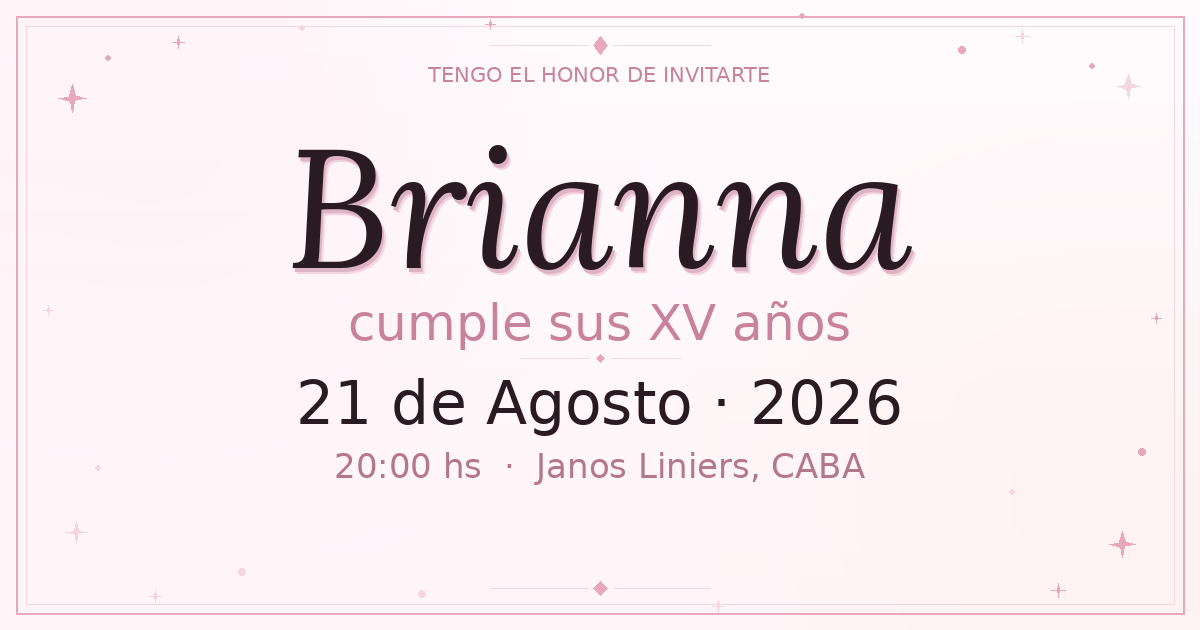
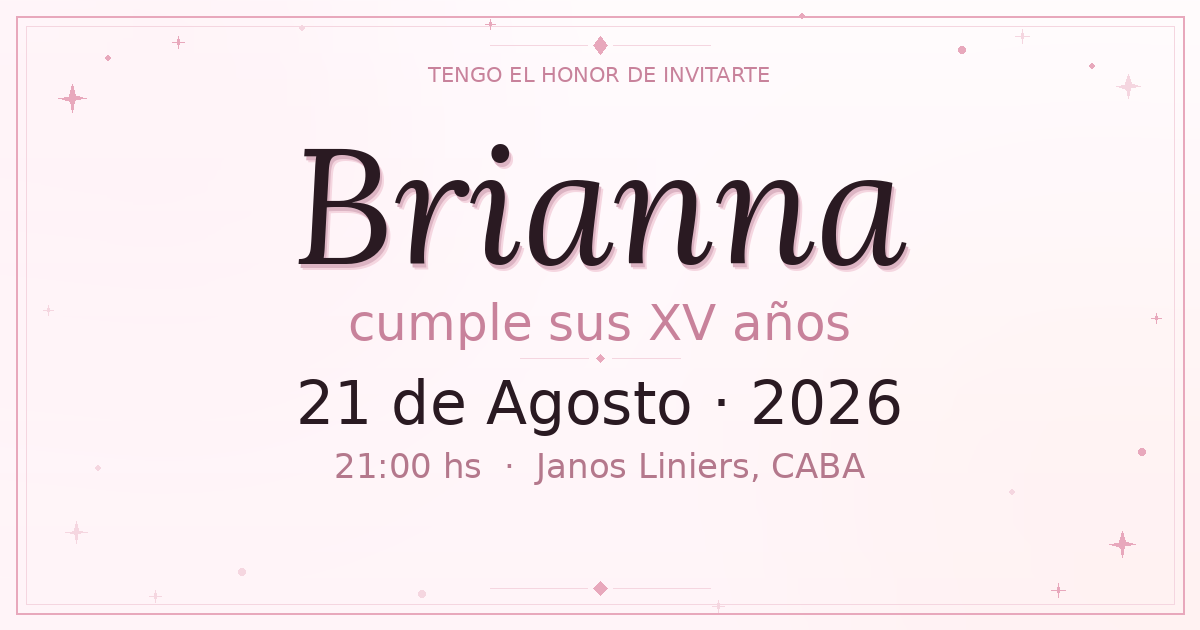
Add files via upload

Changed region(s): [[0.2467, 0.2413, 0.7708, 0.4524], [0.2775, 0.7238, 0.3392, 0.754]]

diff --git a/envio-masivo.html b/envio-masivo.html
@@ -5,6 +5,7 @@
 <meta name="viewport" content="width=device-width, initial-scale=1.0">
 <title>Envío Invitaciones · XV Brianna</title>
 <link href="https://fonts.googleapis.com/css2?family=Raleway:wght@300;400;500;600&display=swap" rel="stylesheet">
+<script src="https://cdnjs.cloudflare.com/ajax/libs/xlsx/0.18.5/xlsx.full.min.js"></script>
 <style>
 :root {
   --rose: #e8a8bc; --champ: #f5d6e0; --ink: #2a1a22;
@@ -93,6 +94,24 @@ td{padding:11px 12px;vertical-align:middle;}
 <!-- IMPORTAR CONTACTOS -->
 <div class="card">
   <h2>Agregar contactos</h2>
+
+  <!-- Desde Excel -->
+  <div style="background:#fff9fb;border:1px solid var(--champ);border-radius:6px;padding:18px;margin-bottom:20px">
+    <div style="font-size:13px;font-weight:500;color:var(--ink);margin-bottom:12px">📊 Opción 1: Desde Excel (recomendado)</div>
+    <div style="display:flex;gap:10px;flex-wrap:wrap">
+      <button class="btn btn-rose btn-sm" onclick="descargarPlantilla()">⬇ Descargar plantilla Excel</button>
+      <label class="btn btn-primary btn-sm" style="cursor:pointer">
+        📂 Subir Excel completo
+        <input type="file" id="excel-file" accept=".xlsx,.xls,.csv" style="display:none" onchange="importarExcel(event)">
+      </label>
+    </div>
+    <div style="font-size:12px;color:var(--ink-soft);margin-top:10px;line-height:1.5">
+      Descargá la plantilla, completala con los nombres y números, guardala en tu compu y subila. Así siempre tenés tu copia en Excel por las dudas.
+    </div>
+  </div>
+
+  <!-- Manual -->
+  <div style="font-size:13px;font-weight:500;color:var(--ink);margin-bottom:12px">✏ Opción 2: Pegar manualmente</div>
   <div class="input-group">
     <label>Pegá los números (uno por línea, o separados por coma) — formato: 54911XXXXXXXX o nombre,número</label>
     <textarea id="import-text" placeholder="Ejemplo:&#10;María García,5491123456789&#10;Juan Pérez,5491198765432&#10;5491155443322"></textarea>
@@ -102,7 +121,22 @@ td{padding:11px 12px;vertical-align:middle;}
     <button class="btn btn-ghost btn-sm" onclick="limpiarTodo()">Borrar todo</button>
   </div>
   <div class="notice">
-    <strong>Formato aceptado:</strong> Número solo (54911XXXXXXXX) o Nombre,Número — Los números deben incluir código de país (Argentina: 549 + código de área + número, sin el 15).
+    <strong>Formato del número:</strong> con código de país. Argentina: 549 + código de área + número, sin el 15. Ej: 5491123456789
+  </div>
+</div>
+
+<!-- RESPALDO -->
+<div class="card" style="border-color:#a8d8a8">
+  <h2 style="color:var(--green)">🔒 Resguardar tus datos</h2>
+  <div class="notice" style="background:#f3fbf3;border-color:#c8e8c8;margin-top:0;margin-bottom:16px">
+    <strong>Importante:</strong> Los contactos se guardan en este navegador. Si limpiás el caché o cambiás de dispositivo, se pierden. <strong>Descargá un respaldo seguido</strong> y guardalo en tu mail o Drive. Después lo podés volver a cargar acá.
+  </div>
+  <div style="display:flex;gap:10px;flex-wrap:wrap">
+    <button class="btn btn-green" onclick="descargarRespaldo()">💾 Descargar respaldo</button>
+    <label class="btn btn-ghost" style="cursor:pointer">
+      📂 Restaurar respaldo
+      <input type="file" id="restore-file" accept=".json" style="display:none" onchange="restaurarRespaldo(event)">
+    </label>
   </div>
 </div>
 
@@ -111,28 +145,55 @@ td{padding:11px 12px;vertical-align:middle;}
   <h2>Mensaje de invitación</h2>
   <div class="input-group">
     <label>Texto del mensaje (podés personalizar)</label>
-    <textarea id="msg-template" rows="6">🌸 *¡Hola! Te invitamos a los XV de Brianna* 🌸
+    <textarea id="msg-template" rows="6">Hola! Estas invitado/a a los 15 de Brianna
 
-✨ El 21 de Agosto de 2026 celebramos esta noche tan especial y nos encantaría tenerte ahí.
+El 21 de Agosto de 2026 celebramos esta noche tan especial y nos encantaria tenerte ahi.
 
-📍 Janos Liniers · Av. Larrazábal 557 · CABA
-🕘 De 21:00 hs a 05:00 hs
+Lugar: Janos Liniers - Av. Larrazabal 557 - CABA
+Horario: de 21:00 a 05:00 hs
 
-Hacé click en el link para ver la invitación completa, confirmar asistencia y conocer todos los detalles:
+Entra al link para ver la invitacion completa, confirmar asistencia y conocer todos los detalles:
 
-👇 https://eonnembo.github.io/invitacion-brianna-xv/
+https://eonnembo.github.io/invitacion-brianna-xv/
 
-*Con amor, la familia Onnembo González* 💕</textarea>
+Con amor, la familia Onnembo Gonzalez</textarea>
   </div>
   <div class="msg-preview" id="msg-preview"></div>
 </div>
 
+<!-- CONFIRMACIONES RECIBIDAS -->
+<div class="card">
+  <h2>✓ Confirmaciones recibidas</h2>
+  <div style="display:flex;gap:10px;margin-bottom:16px;flex-wrap:wrap;align-items:center">
+    <button class="btn btn-rose btn-sm" onclick="cargarConfirmaciones()">🔄 Actualizar confirmaciones</button>
+    <span id="conf-updated" style="font-size:11px;color:var(--ink-soft)"></span>
+  </div>
+  <div class="stats" style="margin-bottom:16px">
+    <div class="stat"><span class="stat-num" id="cf-total" style="color:var(--rose)">0</span><span class="stat-label">Confirmaciones</span></div>
+    <div class="stat"><span class="stat-num" id="cf-asisten" style="color:var(--green)">0</span><span class="stat-label">Asisten</span></div>
+    <div class="stat"><span class="stat-num" id="cf-personas" style="color:var(--ink)">0</span><span class="stat-label">Total personas</span></div>
+    <div class="stat"><span class="stat-num" id="cf-no" style="color:#aaa">0</span><span class="stat-label">No asisten</span></div>
+  </div>
+  <div class="table-wrap">
+    <table>
+      <thead><tr><th>Fecha</th><th>Nombre y Apellido</th><th>Personas</th><th>Acompañantes</th><th>Asiste</th><th>Dieta</th><th>Mensaje</th></tr></thead>
+      <tbody id="conf-body"></tbody>
+    </table>
+    <div id="conf-empty" style="text-align:center;padding:32px;color:var(--ink-soft);font-size:14px">
+      Tocá "Actualizar confirmaciones" para ver quiénes confirmaron ↑
+    </div>
+  </div>
+  <div class="notice">
+    <strong>💡 Las confirmaciones se actualizan</strong> desde la planilla de Google Sheets. Cada vez que toques "Actualizar" se traen las últimas. No hace falta WhatsApp ni mail.
+  </div>
+</div>
+
 <!-- LISTA DE CONTACTOS -->
 <div class="card">
-  <h2>Lista de contactos</h2>
+  <h2>Lista de contactos (envío)</h2>
   <div style="display:flex;gap:10px;margin-bottom:16px;flex-wrap:wrap">
     <button class="btn btn-rose btn-sm" onclick="enviarSiguiente()">▶ Enviar siguiente pendiente</button>
-    <button class="btn btn-ghost btn-sm" onclick="exportarCSV()">⬇ Exportar CSV</button>
+    <button class="btn btn-ghost btn-sm" onclick="exportarCSV()">⬇ Exportar Excel (con estados)</button>
     <button class="btn btn-ghost btn-sm" onclick="filtrar('todos')">Todos</button>
     <button class="btn btn-ghost btn-sm" onclick="filtrar('pendiente')">Solo pendientes</button>
   </div>
@@ -314,16 +375,181 @@ function filtrar(f) {
   renderTabla();
 }
 
-// ── EXPORTAR CSV ──
+// ── EXPORTAR EXCEL ──
 function exportarCSV() {
-  const rows = [['Nombre','Número','Estado','Fecha Envío']];
-  contactos.forEach(c=>rows.push([c.nombre,c.numero,c.estado,c.fechaEnvio||'']));
-  const csv = rows.map(r=>r.map(v=>`"${v}"`).join(',')).join('\n');
-  const blob = new Blob([csv],{type:'text/csv;charset=utf-8;'});
+  const datos = [['Nombre','Numero de WhatsApp','Estado','Fecha Envio']];
+  contactos.forEach(c=>datos.push([c.nombre, c.numero, c.estado, c.fechaEnvio||'']));
+  const ws = XLSX.utils.aoa_to_sheet(datos);
+  ws['!cols'] = [{wch:30},{wch:25},{wch:15},{wch:22}];
+  const wb = XLSX.utils.book_new();
+  XLSX.utils.book_append_sheet(wb, ws, 'Invitados');
+  XLSX.writeFile(wb, 'invitados-brianna-xv.xlsx');
+  toast('⬇ Excel exportado con el estado de cada contacto');
+}
+
+// ── CONFIRMACIONES DESDE SHEETS ──
+const CONF_URL = 'https://script.google.com/macros/s/AKfycbzWmRH-8HkDNK5Qb0wy9Wu4t_7k3lrNWOHocR-RPotx-0EmffH-_ZYgHPDbD1bI35LY-w/exec';
+
+async function cargarConfirmaciones() {
+  const btn = event?.target;
+  if(btn) btn.textContent = '⏳ Cargando...';
+  try {
+    const resp = await fetch(CONF_URL + '?action=list');
+    const data = await resp.json();
+    renderConfirmaciones(data.confirmaciones || data || []);
+    document.getElementById('conf-updated').textContent = 'Actualizado: ' + new Date().toLocaleString('es-AR');
+  } catch(e) {
+    toast('Error al cargar. Verificá el Apps Script.');
+    console.error(e);
+  }
+  if(btn) btn.textContent = '🔄 Actualizar confirmaciones';
+}
+
+function renderConfirmaciones(lista) {
+  const tbody = document.getElementById('conf-body');
+  const empty = document.getElementById('conf-empty');
+
+  if(!lista || lista.length === 0) {
+    tbody.innerHTML = '';
+    empty.style.display = 'block';
+    empty.textContent = 'Todavía no hay confirmaciones.';
+    return;
+  }
+  empty.style.display = 'none';
+
+  // Stats
+  let asisten = 0, noAsisten = 0, totalPersonas = 0;
+  lista.forEach(c => {
+    const asiste = (c.asistencia||'').toLowerCase().includes('confirmo') || (c.asistencia||'').includes('✅');
+    if(asiste){ asisten++; totalPersonas += parseInt(c.personas)||1; }
+    else noAsisten++;
+  });
+  document.getElementById('cf-total').textContent    = lista.length;
+  document.getElementById('cf-asisten').textContent  = asisten;
+  document.getElementById('cf-personas').textContent = totalPersonas;
+  document.getElementById('cf-no').textContent       = noAsisten;
+
+  tbody.innerHTML = lista.slice().reverse().map(c => {
+    const asiste = (c.asistencia||'').toLowerCase().includes('confirmo') || (c.asistencia||'').includes('✅');
+    const nombreCompleto = `${c.nombre||''} ${c.apellido||''}`.trim();
+    return `<tr>
+      <td style="font-size:11px;color:var(--ink-soft)">${c.fecha||''}</td>
+      <td><strong style="font-weight:400">${nombreCompleto}</strong></td>
+      <td style="text-align:center">${c.personas||'-'}</td>
+      <td style="font-size:12px;color:var(--ink-soft)">${c.acompanantes||'-'}</td>
+      <td><span class="badge badge-${asiste?'sent':'skip'}">${asiste?'✓ Sí':'No'}</span></td>
+      <td style="font-size:12px;color:var(--ink-soft)">${c.dieta||'-'}</td>
+      <td style="font-size:12px;color:var(--ink-soft);max-width:200px">${c.mensaje||'-'}</td>
+    </tr>`;
+  }).join('');
+}
+
+// ── EXCEL: PLANTILLA E IMPORTACIÓN ──
+function descargarPlantilla() {
+  const datos = [
+    ['Nombre', 'Numero de WhatsApp'],
+    ['Maria Garcia', '5491123456789'],
+    ['Juan Perez', '5491198765432'],
+    ['', ''],
+    ['', ''],
+    ['', ''],
+  ];
+  const ws = XLSX.utils.aoa_to_sheet(datos);
+  ws['!cols'] = [{wch:30},{wch:25}];
+  // Forzar columna B como texto para no perder ceros
+  for(let r=1; r<datos.length; r++){
+    const cell = 'B'+(r+1);
+    if(ws[cell]) ws[cell].t = 's';
+  }
+  const wb = XLSX.utils.book_new();
+  XLSX.utils.book_append_sheet(wb, ws, 'Invitados');
+  XLSX.writeFile(wb, 'plantilla-invitados-brianna.xlsx');
+  toast('⬇ Plantilla descargada');
+}
+
+function importarExcel(event) {
+  const file = event.target.files[0];
+  if(!file) return;
+  const reader = new FileReader();
+  reader.onload = function(e) {
+    try {
+      const data = new Uint8Array(e.target.result);
+      const wb = XLSX.read(data, {type:'array'});
+      const ws = wb.Sheets[wb.SheetNames[0]];
+      const rows = XLSX.utils.sheet_to_json(ws, {header:1, defval:''});
+
+      let agregados = 0;
+      rows.forEach((row, idx) => {
+        if(idx === 0) return; // saltar encabezado
+        let nombre = String(row[0]||'').trim();
+        let numero = String(row[1]||'').replace(/\D/g,'');
+        // Saltar ejemplos y vacíos
+        if(!numero || numero.length < 8) return;
+        if(nombre==='Maria Garcia' || nombre==='Juan Perez') return;
+
+        if(numero.startsWith('0')) numero = '54'+numero.slice(1);
+        if(!numero.startsWith('54')) numero = '54'+numero;
+        if(contactos.some(c=>c.numero===numero)) return;
+
+        contactos.push({
+          id: Date.now()+Math.random(),
+          nombre: nombre || `Invitado ${contactos.length+1}`,
+          numero, estado:'pendiente', fechaEnvio:null
+        });
+        agregados++;
+      });
+      guardar(); renderTabla(); renderStats();
+      toast(`✅ ${agregados} contacto(s) importado(s) desde Excel`);
+    } catch(err) {
+      toast('Error al leer el Excel');
+      console.error(err);
+    }
+  };
+  reader.readAsArrayBuffer(file);
+  event.target.value = '';
+}
+
+// ── RESPALDO ──
+function descargarRespaldo() {
+  const data = {
+    version: 1,
+    fecha: new Date().toISOString(),
+    contactos: contactos,
+    mensaje: document.getElementById('msg-template').value
+  };
+  const blob = new Blob([JSON.stringify(data, null, 2)], {type:'application/json'});
   const a = document.createElement('a');
   a.href = URL.createObjectURL(blob);
-  a.download = 'invitados-brianna-xv.csv';
+  a.download = `respaldo-invitados-brianna-${new Date().toISOString().slice(0,10)}.json`;
   a.click();
+  toast('💾 Respaldo descargado. ¡Guardalo en tu mail o Drive!');
+}
+
+function restaurarRespaldo(event) {
+  const file = event.target.files[0];
+  if(!file) return;
+  const reader = new FileReader();
+  reader.onload = function(e) {
+    try {
+      const data = JSON.parse(e.target.result);
+      if(data.contactos) {
+        if(contactos.length > 0 && !confirm('Esto reemplazará los contactos actuales. ¿Continuar?')) return;
+        contactos = data.contactos;
+        if(data.mensaje) document.getElementById('msg-template').value = data.mensaje;
+        guardar();
+        renderTabla();
+        renderStats();
+        renderPreview();
+        toast('✅ Respaldo restaurado: ' + contactos.length + ' contactos');
+      } else {
+        toast('Archivo no válido');
+      }
+    } catch(err) {
+      toast('Error al leer el archivo');
+    }
+  };
+  reader.readAsText(file);
+  event.target.value = '';
 }
 
 // ── TOAST ──

diff --git a/index.html b/index.html
@@ -753,7 +753,8 @@ footer .footer-name{
   <p class="section-body" style="text-align:center">Para poder preparar todo con amor, necesitamos saber si vas a estar. ¡Tu confirmación es el primer paso para esta noche inolvidable!</p>
   <div class="confirm-form">
     <div id="form-content">
-      <div class="form-group"><label class="form-label">Tu nombre completo *</label><input class="form-input" id="f-nombre" type="text" placeholder="Tu nombre y apellido 😊"></div>
+      <div class="form-group"><label class="form-label">Nombre *</label><input class="form-input" id="f-nombre" type="text" placeholder="Tu nombre"></div>
+      <div class="form-group"><label class="form-label">Apellido *</label><input class="form-input" id="f-apellido" type="text" placeholder="Tu apellido"></div>
       <div class="form-group"><label class="form-label">¿Cuántos asisten? *</label><select class="form-select" id="f-personas" onchange="actualizarNombres(this.value)"><option value="">Seleccioná</option><option value="1">Solo yo (1 persona)</option><option value="2">2 personas</option><option value="3">3 personas</option><option value="4">4 personas</option><option value="5">5 personas</option><option value="6">6 o más</option></select></div>
       <div class="form-group" id="extra-nombres"><label class="form-label">Nombres de los acompañantes *</label><div id="nombres-container"></div></div>
       <div class="form-group"><label class="form-label">¿Asistís? *</label><div class="radio-group"><div class="radio-option"><input type="radio" name="asistencia" id="r-si" value="✅ Confirmo asistencia"><label class="radio-label" for="r-si">✅ ¡Voy!</label></div><div class="radio-option"><input type="radio" name="asistencia" id="r-no" value="❌ No puedo asistir"><label class="radio-label" for="r-no">😔 No puedo</label></div></div></div>
@@ -1004,19 +1005,19 @@ function toggleMusic(){
 const SHEETS_URL='https://script.google.com/macros/s/AKfycbzWmRH-8HkDNK5Qb0wy9Wu4t_7k3lrNWOHocR-RPotx-0EmffH-_ZYgHPDbD1bI35LY-w/exec';
 function guardarEnSheets(datos){
   try{
-    // GET request (Sheets + mail vía Apps Script)
+    // Un solo método para evitar duplicados
     new Image().src=SHEETS_URL+'?'+new URLSearchParams(datos).toString();
-    // POST como respaldo
-    fetch(SHEETS_URL,{method:'POST',mode:'no-cors',headers:{'Content-Type':'application/json'},body:JSON.stringify(datos)}).catch(()=>{});
   }catch(e){}
 }
 function enviarConfirmacion(){
   const nombre=document.getElementById('f-nombre').value.trim();
+  const apellido=document.getElementById('f-apellido').value.trim();
   const personas=document.getElementById('f-personas').value;
   const asistencia=document.querySelector('input[name="asistencia"]:checked');
   const dieta=document.getElementById('f-dieta').value.trim();
   const mensaje=document.getElementById('f-mensaje').value.trim();
   if(!nombre){alert('Por favor ingresá tu nombre 😊');return;}
+  if(!apellido){alert('Por favor ingresá tu apellido 😊');return;}
   if(!personas){alert('Por favor indicá cuántas personas asisten 😊');return;}
   if(!asistencia){alert('Por favor indicá si vas a asistir 😊');return;}
   const cantExtra=parseInt(personas)-1;
@@ -1024,10 +1025,10 @@ function enviarConfirmacion(){
   if(cantExtra>0&&cantExtra<6){for(let i=1;i<=cantExtra;i++){const inp=document.getElementById(`f-acomp-${i}`);if(inp&&inp.value.trim())nombresAcomp.push(inp.value.trim());}}
   else if(cantExtra>=5){const inp=document.getElementById('f-acomp-multi');if(inp&&inp.value.trim())nombresAcomp.push(inp.value.trim());}
   // Guardar en Sheets (silencioso)
-  const datosConfirm = {fecha:new Date().toLocaleString('es-AR'),nombre,personas,acompanantes:nombresAcomp.join(', '),asistencia:asistencia.value,dieta,mensaje};
+  const datosConfirm = {fecha:new Date().toLocaleString('es-AR'),nombre,apellido,personas,acompanantes:nombresAcomp.join(', '),asistencia:asistencia.value,dieta,mensaje};
   guardarEnSheets(datosConfirm);
   // Marcar como confirmado en localStorage para evitar doble envío
-  localStorage.setItem('brianna_xv_confirmado', JSON.stringify({nombre, fecha: new Date().toISOString()}));
+  localStorage.setItem('brianna_xv_confirmado', JSON.stringify({nombre, apellido, fecha: new Date().toISOString()}));
   document.getElementById('form-content').style.display='none';
   document.getElementById('success-msg').style.display='block';
 }
